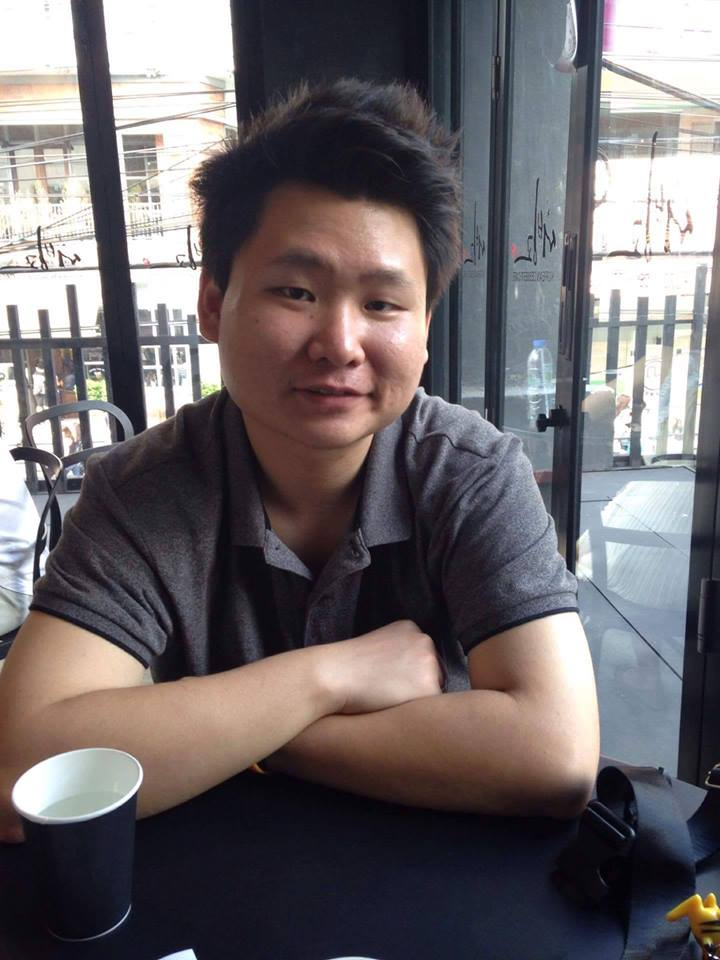
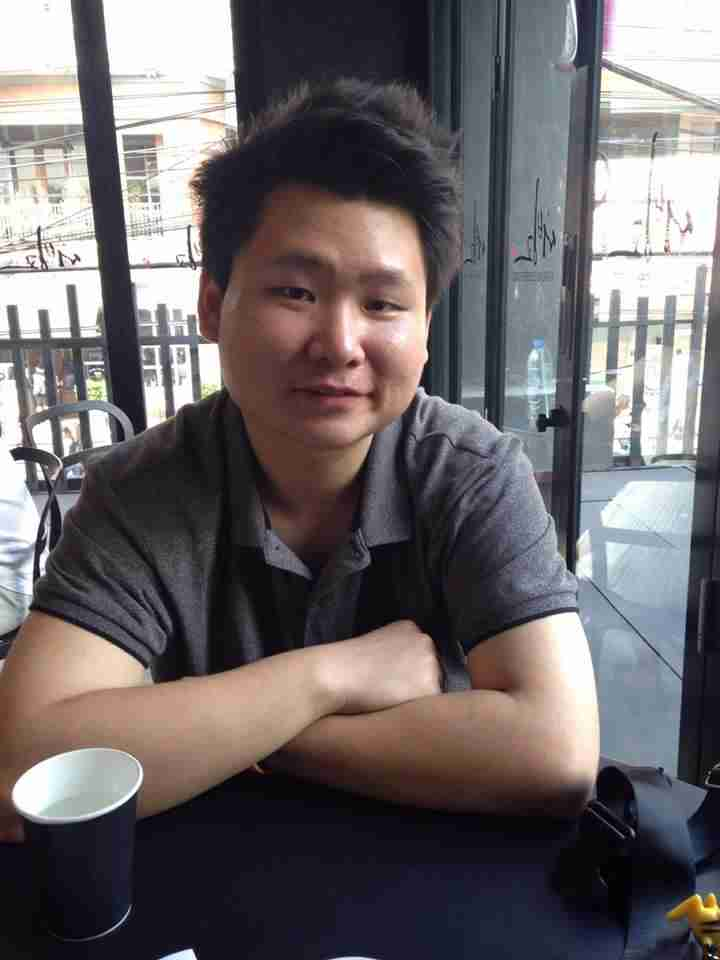
Optimization image and preload style amd script

diff --git a/static/css/preloader.css b/static/css/preloader.css
@@ -1,148 +1,20 @@
-/* The Loader */
-#loader-wrapper {
-	position: fixed;
-	top: 0;
-	left: 0;
-	width: 100%;
-	height: 100%;
-	z-index: 999;
-	overflow: hidden;
-}
-
-.no-js #loader-wrapper {
-	display: none;
-}
-
-#loader {
-	display: block;
-	position: relative;
-	left: 50%;
-	top: 50%;
-	width: 150px;
-	height: 150px;
-	margin: -75px 0 0 -75px;
-	border-radius: 50%;
-	border: 3px solid transparent;
-	border-top-color: #16a085;
-	-webkit-animation: spin 1.7s linear infinite;
-	animation: spin 1.7s linear infinite;
-	z-index: 11;
-}
-
-#loader:before {
-	content: '';
-	position: absolute;
-	top: 5px;
-	left: 5px;
-	right: 5px;
-	bottom: 5px;
-	border-radius: 50%;
-	border: 3px solid transparent;
-	border-top-color: #e74c3c;
-	-webkit-animation: spin-reverse 0.6s linear infinite;
-	animation: spin-reverse 0.6s linear infinite;
-}
-
-#loader:after {
-	content: '';
-	position: absolute;
-	top: 15px;
-	left: 15px;
-	right: 15px;
-	bottom: 15px;
-	border-radius: 50%;
-	border: 3px solid transparent;
-	border-top-color: #f9c922;
-	-webkit-animation: spin 1s linear infinite;
-	animation: spin 1s linear infinite;
-}
-
-@-webkit-keyframes spin {
-	0% {
-		-webkit-transform: rotate(0deg);
-		transform: rotate(0deg);
-	}
-	100% {
-		-webkit-transform: rotate(360deg);
-		transform: rotate(360deg);
-	}
-}
-
-@keyframes spin {
-	0% {
-		-webkit-transform: rotate(0deg);
-		transform: rotate(0deg);
-	}
-	100% {
-		-webkit-transform: rotate(360deg);
-		transform: rotate(360deg);
-	}
-}
-
-@-webkit-keyframes spin-reverse {
-	0% {
-		-webkit-transform: rotate(0deg);
-		transform: rotate(0deg);
-	}
-	100% {
-		-webkit-transform: rotate(-360deg);
-		transform: rotate(-360deg);
-	}
-}
-
-@keyframes spin-reverse {
-	0% {
-		-webkit-transform: rotate(0deg);
-		transform: rotate(0deg);
-	}
-	100% {
-		-webkit-transform: rotate(-360deg);
-		transform: rotate(-360deg);
-	}
-}
-
-#loader-wrapper .loader-section {
-	position: fixed;
-	top: 0;
-	width: 51%;
-	height: 100%;
-	background: #222;
-	z-index: 10;
-}
-
-#loader-wrapper .loader-section.section-left {
-	left: 0;
-}
-
-#loader-wrapper .loader-section.section-right {
-	right: 0;
-}
-
-/* Loaded styles */
-.loaded #loader-wrapper .loader-section.section-left {
-	-webkit-transform: translateX(-100%);
-	transform: translateX(-100%);
-	-webkit-transition: all 0.7s 0.3s cubic-bezier(0.645, 0.045, 0.355, 1);
-	transition: all 0.7s 0.3s cubic-bezier(0.645, 0.045, 0.355, 1);
-}
-
-.loaded #loader-wrapper .loader-section.section-right {
-	-webkit-transform: translateX(100%);
-	transform: translateX(100%);
-	-webkit-transition: all 0.7s 0.3s cubic-bezier(0.645, 0.045, 0.355, 1);
-	transition: all 0.7s 0.3s cubic-bezier(0.645, 0.045, 0.355, 1);
-}
-
-.loaded #loader {
-	opacity: 0;
-	-webkit-transition: all 0.3s ease-out;
-	transition: all 0.3s ease-out;
-}
-
-.loaded #loader-wrapper {
-	visibility: hidden;
-	-webkit-transform: translateY(-100%);
-	transform: translateY(-100%);
-	-webkit-transition: all 0.3s 1s ease-out;
-	transition: all 0.3s 1s ease-out;
-}
+#loader-wrapper{position:fixed;top:0;left:0;width:100%;height:100%;z-index:999;overflow:hidden}
+.no-js #loader-wrapper{display:none}
+#loader{display:block;position:relative;left:50%;top:50%;width:150px;height:150px;margin:-75px 0 0 -75px;border-radius:50%;border:3px solid transparent;border-top-color:#16a085;-webkit-animation:spin 1.7s linear infinite;animation:spin 1.7s linear infinite;z-index:11}
+#loader:before{content:'';position:absolute;top:5px;left:5px;right:5px;bottom:5px;border-radius:50%;border:3px solid transparent;border-top-color:#e74c3c;-webkit-animation:spin-reverse .6s linear infinite;animation:spin-reverse .6s linear infinite}
+#loader:after{content:'';position:absolute;top:15px;left:15px;right:15px;bottom:15px;border-radius:50%;border:3px solid transparent;border-top-color:#f9c922;-webkit-animation:spin 1s linear infinite;animation:spin 1s linear infinite}
+@-webkit-keyframes spin{0%{-webkit-transform:rotate(0deg);transform:rotate(0deg)}
+100%{-webkit-transform:rotate(360deg);transform:rotate(360deg)}
+}@keyframes spin{0%{-webkit-transform:rotate(0deg);transform:rotate(0deg)}
+100%{-webkit-transform:rotate(360deg);transform:rotate(360deg)}
+}@-webkit-keyframes spin-reverse{0%{-webkit-transform:rotate(0deg);transform:rotate(0deg)}
+100%{-webkit-transform:rotate(-360deg);transform:rotate(-360deg)}
+}@keyframes spin-reverse{0%{-webkit-transform:rotate(0deg);transform:rotate(0deg)}
+100%{-webkit-transform:rotate(-360deg);transform:rotate(-360deg)}
+}#loader-wrapper .loader-section{position:fixed;top:0;width:51%;height:100%;background:#222;z-index:10}
+#loader-wrapper .loader-section.section-left{left:0}
+#loader-wrapper .loader-section.section-right{right:0}
+.loaded #loader-wrapper .loader-section.section-left{-webkit-transform:translateX(-100%);transform:translateX(-100%);-webkit-transition:all .7s .3s cubic-bezier(0.645,0.045,0.355,1);transition:all .7s .3s cubic-bezier(0.645,0.045,0.355,1)}
+.loaded #loader-wrapper .loader-section.section-right{-webkit-transform:translateX(100%);transform:translateX(100%);-webkit-transition:all .7s .3s cubic-bezier(0.645,0.045,0.355,1);transition:all .7s .3s cubic-bezier(0.645,0.045,0.355,1)}
+.loaded #loader{opacity:0;-webkit-transition:all .3s ease-out;transition:all .3s ease-out}
+.loaded #loader-wrapper{visibility:hidden;-webkit-transform:translateY(-100%);transform:translateY(-100%);-webkit-transition:all .3s 1s ease-out;transition:all .3s 1s ease-out}

diff --git a/pages/_document.js b/pages/_document.js
@@ -35,6 +35,27 @@ class MyDocument extends Document {
 					{/* PWA primary color */}
 					<meta name="theme-color" content={pageContext.theme.palette.primary.main} />
 					<link rel="shortcut icon" href="static/favicon.ico" />
+					{/* Preload javascript and css */}
+					<link
+						rel="preload"
+						href="https://fonts.googleapis.com/css?family=Roboto:300,400,500"
+						as="style"
+					/>
+					<link
+						rel="preload"
+						href="https://fonts.googleapis.com/icon?family=Material+Icons"
+						as="style"
+					/>
+					<link
+						rel="preload"
+						href="https://cdnjs.cloudflare.com/ajax/libs/font-awesome/4.7.0/css/font-awesome.min.css"
+						as="style"
+					/>
+					<link rel="preload" href="static/css/styles.css" as="style" />
+					<link rel="preload" href="static/css/aos.css" as="style" />
+					<link rel="preload" href="static/css/preloader.css" as="style" />
+					<script rel="preload" src="static/js/aos.js" as="script" />
+
 					<link
 						rel="stylesheet"
 						href="https://fonts.googleapis.com/css?family=Roboto:300,400,500"

diff --git a/static/css/styles.css b/static/css/styles.css
@@ -1,4 +1,1 @@
-body {
-	margin: 0;
-	padding: 0;
-}
+body{margin:0;padding:0}
